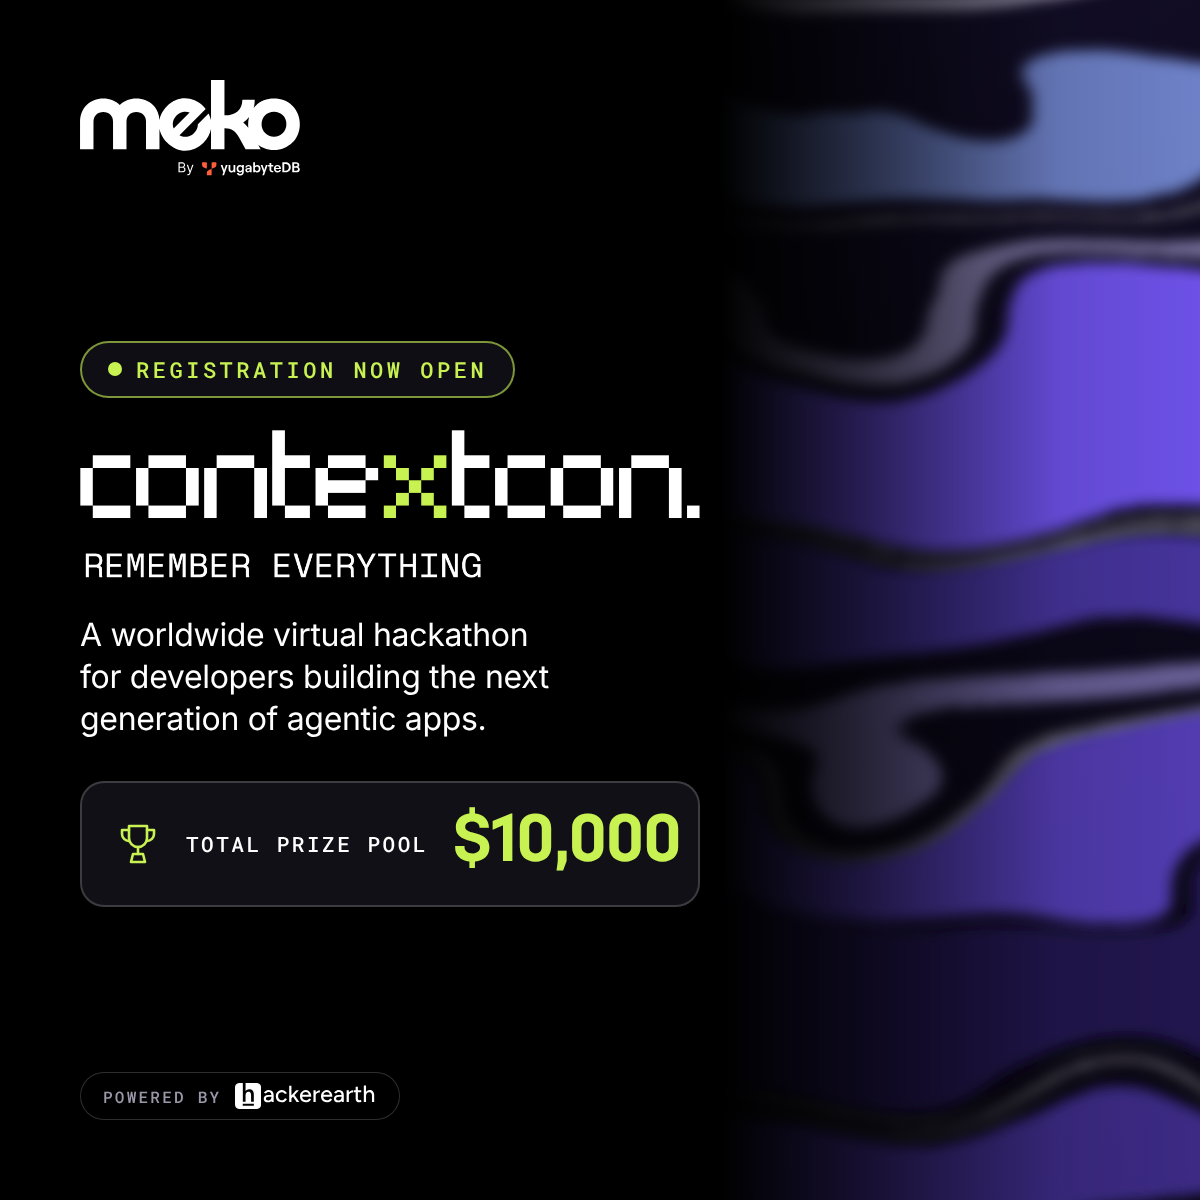
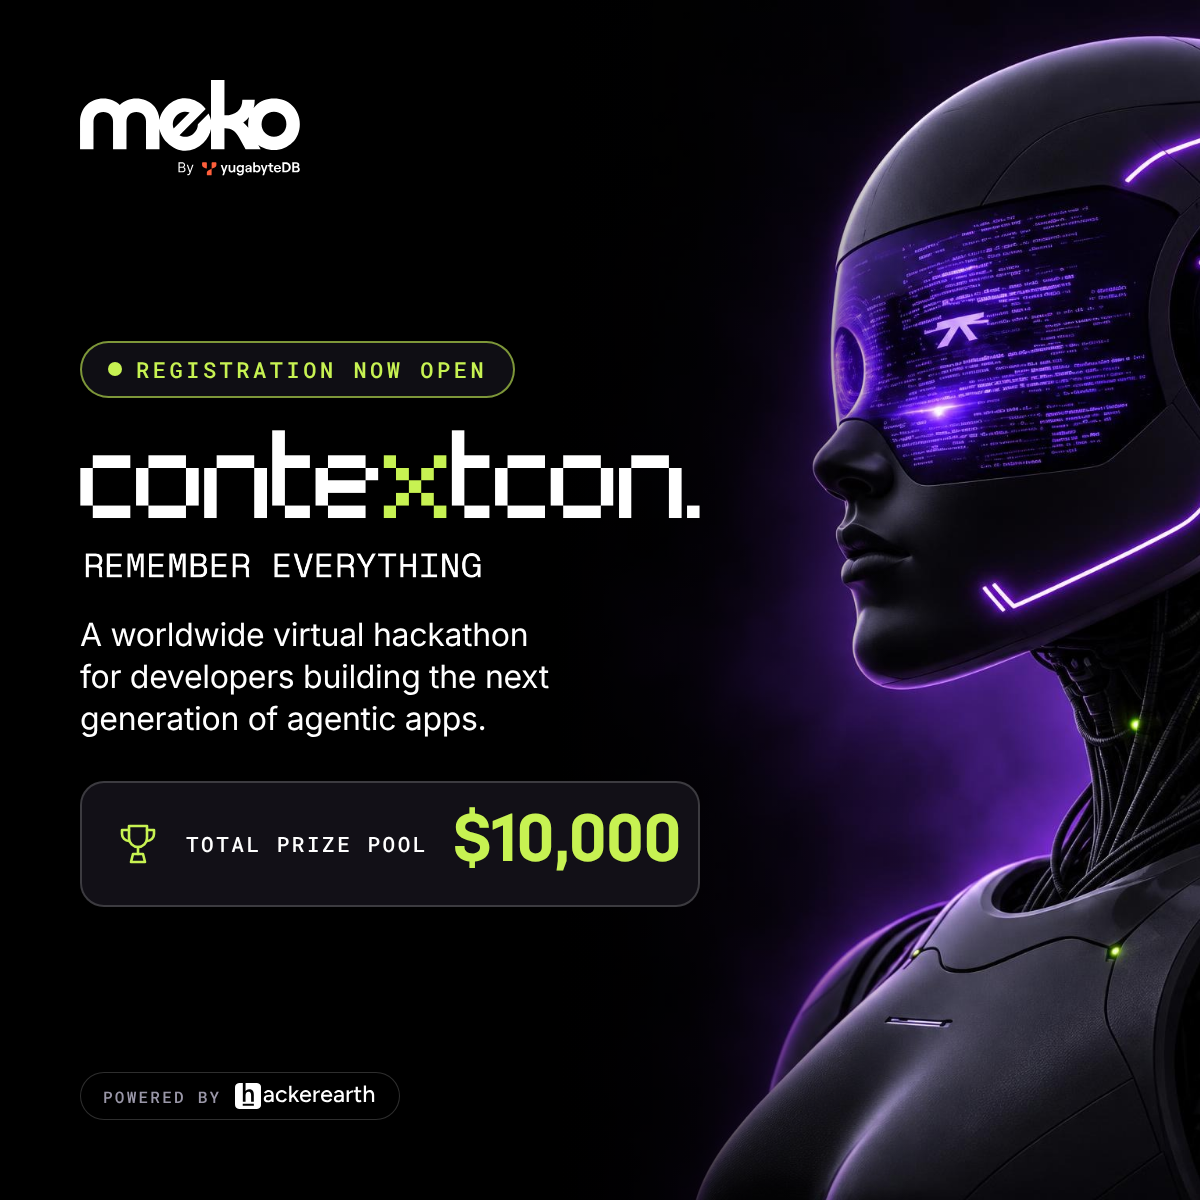
LinkedIn post: replace texture with robot2.jpg image
Claude-Session: https://claude.ai/code/session_011WvSfbuXTc2R9BKwTF66Kj

Changed region(s): [[0.555, 0.0, 1.0, 1.0]]

diff --git a/banners/contextcon-linkedin-1200x1200.html b/banners/contextcon-linkedin-1200x1200.html
@@ -19,7 +19,8 @@
 html,body{margin:0;background:var(--ground)}
 body{min-height:100vh;display:grid;place-items:center;-webkit-font-smoothing:antialiased}
 .post{position:relative;width:1200px;height:1200px;overflow:hidden;background:var(--ground);font-family:var(--sans);color:var(--text)}
-.tex{position:absolute;inset:0;width:100%;height:100%;display:block}
+.photo{position:absolute;top:0;bottom:0;left:340px;width:1200px;background:url(assets/linkedin-robot.jpg) center/cover no-repeat}
+.photo::after{content:'';position:absolute;inset:0;background:linear-gradient(90deg,#000 0%,#000 18%,rgba(0,0,0,.75) 30%,rgba(0,0,0,0) 48%)}
 /* content sits inside Instagram's safe area (clear of top ~250px and bottom ~250px UI) */
 .content{position:absolute;left:80px;width:620px;top:80px;bottom:80px;display:flex;flex-direction:column;align-items:flex-start}
 .pill{margin:auto 0 0;font-family:var(--mono);font-size:22px;font-weight:500;letter-spacing:.16em;text-transform:uppercase;color:var(--lime);
@@ -46,45 +47,7 @@ h1 img{display:block;width:100%;height:auto}
 </head>
 <body>
 <main class="post" aria-label="ContextCon: Remember everything — registration now open">
-  <svg class="tex" viewBox="0 0 2000 1200" preserveAspectRatio="xMaxYMid slice" aria-hidden="true">
-    <defs>
-      <linearGradient id="g135" x1="0" y1="0" x2="1" y2="1">
-        <stop offset="0" stop-color="#8ea8ff"/><stop offset=".35" stop-color="#7859fe"/>
-        <stop offset=".62" stop-color="#4a35a2"/><stop offset="1" stop-color="#20154f"/>
-      </linearGradient>
-      <filter id="marble" x="-10%" y="-10%" width="120%" height="120%">
-        <feTurbulence type="fractalNoise" baseFrequency="0.0022 0.005" numOctaves="2" seed="23" result="n"/>
-        <feDisplacementMap in="SourceGraphic" in2="n" scale="260" xChannelSelector="R" yChannelSelector="G" result="d"/>
-        <feGaussianBlur in="d" stdDeviation="7"/>
-      </filter>
-      <linearGradient id="fade" x1="0" y1="0" x2="1" y2="0">
-        <stop offset=".76" stop-color="#fff" stop-opacity="0"/>
-        <stop offset=".83" stop-color="#fff" stop-opacity=".35"/>
-        <stop offset=".93" stop-color="#fff" stop-opacity=".9"/>
-        <stop offset="1" stop-color="#fff" stop-opacity="1"/>
-      </linearGradient>
-      <mask id="m"><rect width="2000" height="1200" fill="url(#fade)"/></mask>
-    </defs>
-    <g mask="url(#m)">
-      <rect x="0" y="0" width="2000" height="1200" fill="url(#g135)" opacity=".18"/>
-      <g filter="url(#marble)">
-        <path d="M240 -240 C680 -130 1160 -290 1380 -100 S1760 0 2140 -80" stroke="#e9e6ff" stroke-width="30" fill="none" opacity="0.7"/>
-<path d="M240 -80 C680 30 1160 -130 1380 60 S1760 160 2140 80" stroke="#8ea8ff" stroke-width="90" fill="none" opacity="0.75"/>
-<path d="M240 70 C680 180 1160 20 1380 210 S1760 310 2140 230" stroke="#c9c2ff" stroke-width="26" fill="none" opacity="0.6"/>
-<path d="M240 180 C680 290 1160 130 1380 320 S1760 420 2140 340" stroke="#7859fe" stroke-width="150" fill="none" opacity="0.9"/>
-<path d="M240 350 C680 460 1160 300 1380 490 S1760 590 2140 510" stroke="#4a35a2" stroke-width="130" fill="none" opacity="0.95"/>
-<path d="M240 480 C680 590 1160 430 1380 620 S1760 720 2140 640" stroke="#b7a8ff" stroke-width="30" fill="none" opacity="0.55"/>
-<path d="M240 600 C680 710 1160 550 1380 740 S1760 840 2140 760" stroke="#5f46cd" stroke-width="120" fill="none" opacity="0.85"/>
-<path d="M240 760 C680 870 1160 710 1380 900 S1760 1000 2140 920" stroke="#20154f" stroke-width="170" fill="none" opacity="1"/>
-<path d="M240 940 C680 1050 1160 890 1380 1080 S1760 1180 2140 1100" stroke="#4a35a2" stroke-width="90" fill="none" opacity="0.8"/>
-<path d="M240 1100 C680 1210 1160 1050 1380 1240 S1760 1340 2140 1260" stroke="#20154f" stroke-width="160" fill="none" opacity="1"/>
-<path d="M260 0 C700 110 1180 -50 1400 140 S1780 240 2140 160" stroke="#ffffff" stroke-width="5" fill="none" opacity="0.7"/>
-<path d="M260 270 C700 380 1180 220 1400 410 S1780 510 2140 430" stroke="#ffffff" stroke-width="5" fill="none" opacity="0.55"/>
-<path d="M260 530 C700 640 1180 480 1400 670 S1780 770 2140 690" stroke="#ffffff" stroke-width="5" fill="none" opacity="0.5"/>
-<path d="M260 870 C700 980 1180 820 1400 1010 S1780 1110 2140 1030" stroke="#ffffff" stroke-width="5" fill="none" opacity="0.4"/>
-      </g>
-    </g>
-  </svg>
+  <div class="photo" aria-hidden="true"></div>
   <div class="content">
     <div class="meko"><svg xmlns="http://www.w3.org/2000/svg" role="img" aria-label="Meko by YugabyteDB" viewBox="0 0 943.4 409.61"><path fill="#ffffff" d="M 881.02 210.62 C 878.36 217.12 874.66 222.82 869.94 227.69 C 865.21 232.55 859.59 236.33 853.08 238.99 C 846.58 241.65 839.18 242.98 831.79 242.98 C 824.41 242.98 817.46 241.65 810.95 238.99 C 804.45 236.33 798.77 232.55 793.88 227.69 C 789.02 222.82 785.24 217.12 782.58 210.62 C 779.93 204.12 778.59 197.18 778.59 189.78 C 778.59 182.09 779.93 174.99 782.58 168.49 C 785.24 161.98 789.02 156.36 793.88 151.64 C 798.75 146.91 804.45 143.21 810.95 140.55 C 817.46 137.89 824.39 136.56 831.79 136.56 C 847.17 136.56 859.88 141.59 869.94 151.64 C 879.98 161.7 885.01 174.42 885.01 189.78 C 885.01 197.16 883.68 204.12 881.02 210.62 M 700.15 182.27 C 709.77 175.62 718.07 167.79 725.09 158.77 C 722.32 168.58 720.94 178.91 720.94 189.78 C 720.94 195.04 721.28 200.22 721.96 205.27 C 715.19 196.5 707.91 188.84 700.15 182.27 M 401.55 208.27 C 397.78 198.64 396.95 188.92 399.04 179.09 C 401.12 169.26 406.15 160.37 414.09 152.43 C 422.04 144.48 430.98 139.42 440.9 137.23 C 450.84 135.04 460.61 135.82 470.22 139.58 Z M 934.22 146.1 C 928.61 132.66 920.76 120.91 910.72 110.85 C 900.68 100.81 888.93 92.98 875.47 87.35 C 862.01 81.75 847.17 78.93 831.79 78.93 C 816.41 78.93 801.93 81.75 788.33 87.35 C 774.73 92.96 762.98 100.81 753.08 110.85 C 750.05 113.94 747.19 117.2 744.51 120.62 C 747.77 109.36 749.38 97.23 749.38 84.26 L 696.16 84.26 C 696.16 105.55 689.66 122.12 676.65 133.94 C 663.65 145.76 645.3 151.67 621.66 151.67 L 619.45 151.67 L 619.45 0 L 561.79 0 L 561.79 173 C 559.89 162.99 556.46 153.22 551.46 143.64 L 505.36 189.74 C 505.79 203.95 500.46 216.6 489.37 227.69 C 480.59 236.45 470.51 241.65 459.12 243.21 C 447.71 244.79 436.91 242.74 426.65 237.1 L 538.92 124.83 C 535.37 120.03 532.02 116.06 528.88 112.92 C 517.6 101.62 505.18 93.1 491.71 87.35 C 478.25 81.62 464.54 78.69 450.64 78.59 C 436.75 78.48 423.11 81.26 409.73 86.9 C 396.32 92.54 384 101.01 372.72 112.29 C 361.42 123.59 352.97 135.91 347.31 149.3 C 344.2 156.67 341.98 164.11 340.61 171.63 C 339.96 159.95 337.59 149.01 333.48 138.81 C 328.59 126.7 321.73 116.28 312.85 107.55 C 303.98 98.83 293.48 92.04 281.36 87.16 C 269.23 82.29 255.63 79.84 241.44 79.84 C 227.24 79.84 214.09 82.21 201.96 86.94 C 189.84 91.68 179.34 98.33 170.47 106.9 C 161.88 98.33 151.55 91.66 139.43 86.94 C 127.3 82.21 114.45 79.84 99.95 79.84 C 85.45 79.84 72.16 82.29 60.03 87.16 C 47.9 92.02 37.41 98.83 28.54 107.55 C 19.68 116.26 12.73 126.68 7.7 138.81 C 2.66 150.93 0.15 164.09 0.15 178.28 L 0.15 297.13 L 57.8 297.13 L 57.8 178.71 C 57.8 166.3 61.65 156.32 69.34 148.78 C 77.03 141.25 87.21 137.48 99.93 137.48 L 99.99 137.48 C 112.71 137.48 122.84 141.25 130.37 148.78 C 137.89 156.31 141.67 166.3 141.67 178.71 L 141.67 297.13 L 199.32 297.13 L 199.32 178.71 C 199.32 166.3 203.17 156.32 210.86 148.78 C 218.55 141.25 228.73 137.48 241.45 137.48 C 254.18 137.48 264.31 141.25 271.84 148.78 C 279.36 156.31 283.14 166.3 283.14 178.71 L 283.14 297.13 L 340.79 297.13 L 340.79 208.61 C 342.25 216.24 344.58 223.79 347.78 231.3 C 353.53 244.79 362.04 257.17 373.33 268.47 L 373.36 268.47 C 384.86 279.97 397.35 288.59 410.84 294.32 C 424.32 300.09 437.95 302.95 451.75 302.95 C 465.55 302.95 479.15 300.14 492.52 294.49 C 505.92 288.84 518.25 280.38 529.53 269.08 C 538.31 260.31 545.46 250.74 551.02 240.39 C 556.24 230.62 559.84 220.62 561.79 210.39 L 561.79 297.11 L 619.45 297.11 L 619.45 207.08 L 621.66 207.08 C 635.55 207.08 647.3 210.26 656.91 216.62 C 666.52 223 675.16 233.26 682.85 247.45 L 709.91 297.13 L 774.66 297.13 L 764.47 278.35 C 771.66 283.76 779.62 288.29 788.33 291.99 C 801.93 297.76 816.13 300.63 831.79 300.63 C 847.46 300.63 862.01 297.76 875.47 291.99 C 888.91 286.22 900.66 278.41 910.72 268.49 C 920.76 258.59 928.59 246.84 934.22 233.24 C 939.82 219.64 942.64 205.45 942.64 189.78 C 942.64 174.11 939.82 159.56 934.22 146.1 "/><path fill="#ffffff" d="M 926.7 389.04 L 918.33 389.04 L 918.33 376.73 L 926.7 376.73 C 932.21 376.73 934.87 379 934.87 382.93 C 934.87 386.88 932.21 389.04 926.7 389.04 M 918.33 359.5 L 926.3 359.5 C 930.73 359.5 932.9 361.38 932.9 364.72 C 932.9 368.07 930.73 369.84 926.4 369.84 L 918.33 369.84 Z M 935.26 372.6 C 937.92 371.22 940.48 368.17 940.48 364.04 C 940.48 356.95 934.87 353.01 926.99 353.01 L 910.26 353.01 L 910.26 396.12 L 927.59 396.12 C 936.64 396.12 942.64 391.4 942.64 383.32 C 942.64 377.62 939.3 374.07 935.27 372.59 Z M 935.26 372.6 "/><path fill="#ffffff" d="M 881.13 389.04 L 875.91 389.04 L 875.91 360 L 881.13 360 C 888.51 360 895.59 363.84 895.59 374.57 C 895.59 385.3 888.51 389.04 881.13 389.04 Z M 881.71 353.01 L 867.74 353.01 L 867.74 396.12 L 881.71 396.12 C 893.73 396.12 903.87 388.94 903.87 374.57 C 903.87 360.2 893.73 353.01 881.71 353.01 Z M 881.71 353.01 "/><path fill="#ffffff" d="M 846.67 370.24 C 851.2 370.24 853.85 373.19 854.25 377.13 L 838.89 377.13 C 839.68 372.5 842.44 370.24 846.67 370.24 Z M 854.54 385.79 C 853.76 388.74 851.2 390.32 847.26 390.32 C 842.54 390.32 839.29 387.17 838.7 382.15 L 861.63 382.15 C 861.76 381.3 861.82 380.45 861.82 379.59 C 861.82 372.11 857.1 364.53 846.67 364.53 C 836.23 364.53 831.41 372.3 831.41 380.47 C 831.41 388.64 837.12 396.62 847.26 396.62 C 854.94 396.62 860.74 392.39 861.92 385.79 Z M 854.54 385.79 "/><path fill="#ffffff" d="M 828.86 371.42 L 828.86 365.02 L 820.29 365.02 L 820.29 355.66 L 812.71 355.66 L 812.71 365.02 L 806.61 365.02 L 806.61 371.42 L 812.71 371.42 L 812.71 385.3 C 812.71 392.19 817.14 396.12 823.93 396.12 L 828.86 396.12 L 828.86 389.73 L 824.72 389.73 C 821.97 389.73 820.29 388.15 820.29 385 L 820.29 371.42 Z M 828.86 371.42 "/><path fill="#ffffff" d="M 797.16 365.02 L 790.07 386.38 L 782.79 365.02 L 775.11 365.02 L 786.43 396.12 L 782.1 408.72 L 789.28 408.72 L 794.11 394.64 L 804.93 365.02 L 797.16 365.02 Z M 797.16 365.02 "/><path fill="#ffffff" d="M 758.27 390.12 C 753.25 390.12 749.9 386.29 749.9 380.57 C 749.9 374.86 753.25 371.12 758.27 371.12 C 763.29 371.12 766.64 374.86 766.64 380.57 C 766.64 386.28 763.29 390.12 758.27 390.12 M 759.55 364.53 C 755.52 364.53 752.17 366.3 750.39 368.86 L 750.39 353.02 L 742.82 353.02 L 742.82 396.12 L 750.39 396.12 L 750.39 392.29 C 752.17 394.95 755.62 396.62 759.36 396.62 C 768.71 396.62 774.22 390.12 774.22 380.57 C 774.22 371.02 768.71 364.53 759.55 364.53 Z M 759.55 364.53 "/><path fill="#ffffff" d="M 728.64 383.04 C 728.64 387.66 725.89 391 721.16 391 C 718.31 391 716.34 389.43 716.34 386.97 C 716.34 384.31 718.51 382.54 721.66 382.54 L 728.64 382.54 Z M 722.64 364.53 C 714.57 364.53 709.35 369.35 708.96 375.55 L 715.75 375.55 C 715.85 372.8 718.31 370.24 722.35 370.24 C 726.38 370.24 728.64 372.41 728.64 375.45 C 728.64 376.64 727.96 377.52 726.38 377.52 L 720.67 377.52 C 713.69 377.52 708.96 381.26 708.96 387.37 C 708.96 392.68 713.19 396.62 719.3 396.62 C 723.82 396.62 727.36 394.55 728.64 391.5 L 728.64 396.12 L 736.13 396.12 L 736.13 376.14 C 736.13 369.16 730.52 364.53 722.64 364.53 Z M 722.64 364.53 "/><path fill="#ffffff" d="M 658.36 365.02 L 658.36 382.05 C 658.36 386.58 655.31 389.92 651.07 389.92 C 646.84 389.92 644.58 386.97 644.58 382.74 L 644.58 365.02 L 637.1 365.02 L 637.1 384.31 C 637.1 391.59 641.43 396.61 648.62 396.61 C 653.04 396.61 656.59 394.75 658.36 391.3 L 658.36 396.12 L 665.95 396.12 L 665.95 365.02 Z M 658.36 365.02 "/><path fill="#ffffff" d="M 625.38 365.02 L 618.2 386.38 L 611.02 365.02 L 603.34 365.02 L 614.65 396.12 L 610.32 408.72 L 617.51 408.72 L 622.33 394.64 L 633.16 365.02 Z M 625.38 365.02 "/><path fill="#ffffff" d="M 687.3 390.12 C 682.28 390.12 678.93 386.28 678.93 380.57 C 678.93 374.86 682.28 371.12 687.3 371.12 C 692.32 371.12 695.77 374.86 695.77 380.57 C 695.77 386.27 692.42 390.12 687.3 390.12 M 695.18 365.02 L 695.18 368.56 C 693.41 366.2 690.06 364.53 686.12 364.53 C 676.87 364.53 671.45 371.12 671.45 380.57 C 671.45 390.02 676.87 396.62 686.22 396.62 C 690.75 396.62 693.7 395.04 695.27 392.68 L 695.27 393.18 C 695.27 398.98 693.41 402.92 687.3 402.92 C 683.46 402.92 681.5 401.35 680.21 398.29 L 672.64 398.29 C 674.31 405.87 679.43 409.22 687.3 409.22 C 697.14 409.22 702.46 403.31 702.46 393.18 L 702.76 365.02 L 695.18 365.02 Z M 695.18 365.02 "/><path fill="#ff5f3b" d="M 539.94 353.01 C 541.34 353.01 542.05 353.01 542.59 353.28 C 543.05 353.52 543.44 353.91 543.68 354.38 C 543.95 354.91 543.95 355.62 543.95 357.02 L 543.95 374.68 C 543.95 376.77 543.95 377.82 543.51 378.46 C 543.12 379.02 542.53 379.41 541.86 379.52 C 541.09 379.64 540.14 379.2 538.24 378.32 L 533.3 376.01 C 529.73 374.35 527.94 373.52 526.63 372.23 C 525.48 371.09 524.6 369.71 524.05 368.18 C 523.45 366.45 523.45 364.48 523.45 360.55 L 523.45 357.02 C 523.45 355.62 523.45 354.91 523.72 354.38 C 523.96 353.91 524.34 353.52 524.81 353.28 C 525.35 353.01 526.05 353.01 527.46 353.01 Z M 539.94 353.01 "/><path fill="#ff5f3b" d="M 580.96 353.01 C 582.37 353.01 583.07 353.01 583.61 353.28 C 584.08 353.52 584.46 353.91 584.71 354.38 C 584.98 354.91 584.98 355.62 584.98 357.02 L 584.98 360.55 C 584.98 364.49 584.98 366.46 584.37 368.18 C 583.83 369.71 582.95 371.1 581.79 372.23 C 580.48 373.52 578.7 374.35 575.13 376.01 L 564.47 380.98 L 564.47 357.02 C 564.47 355.62 564.47 354.91 564.74 354.38 C 564.98 353.91 565.37 353.52 565.84 353.28 C 566.38 353.01 567.08 353.01 568.48 353.01 Z M 580.96 353.01 "/><path fill="#ff5f3b" d="M 564.47 380.98 L 564.47 404.95 C 564.47 406.35 564.47 407.05 564.2 407.59 C 563.95 408.06 563.57 408.45 563.1 408.69 C 562.56 408.96 561.86 408.96 560.45 408.96 L 547.97 408.96 C 546.57 408.96 545.86 408.96 545.33 408.69 C 544.86 408.45 544.47 408.06 544.23 407.59 C 543.96 407.05 543.96 406.35 543.96 404.95 L 543.96 401.42 C 543.96 397.48 543.96 395.51 544.57 393.78 C 545.11 392.25 545.99 390.87 547.15 389.73 C 548.46 388.45 550.24 387.62 553.81 385.95 Z M 564.47 380.98 "/><path fill="#ffffff" d="M 427.5 391.49 L 437.88 391.49 C 441.29 391.49 443.71 390.83 445.16 389.5 C 446.6 388.17 447.32 386.56 447.32 384.66 C 447.32 383.2 446.95 381.85 446.2 380.61 C 445.46 379.36 444.39 378.36 443.02 377.61 C 441.64 376.86 440.01 376.48 438.13 376.48 L 427.5 376.48 Z M 427.5 371.93 L 437.2 371.93 C 438.77 371.93 440.2 371.62 441.47 371 C 442.74 370.38 443.75 369.52 444.5 368.39 C 445.26 367.27 445.63 365.95 445.63 364.43 C 445.63 362.53 444.97 360.92 443.65 359.59 C 442.33 358.26 440.23 357.6 437.37 357.6 L 427.5 357.6 Z M 422.28 396.13 L 422.28 352.96 L 437.37 352.96 C 440.38 352.96 442.86 353.48 444.81 354.51 C 446.76 355.54 448.22 356.93 449.17 358.66 C 450.13 360.4 450.61 362.32 450.61 364.43 C 450.61 366.28 450.28 367.81 449.62 369.02 C 448.97 370.23 448.12 371.19 447.05 371.89 C 446 372.59 444.84 373.11 443.61 373.45 L 443.61 373.87 C 444.93 373.96 446.26 374.42 447.59 375.26 C 448.93 376.11 450.04 377.31 450.95 378.89 C 451.84 380.46 452.29 382.39 452.29 384.66 C 452.29 386.82 451.8 388.77 450.82 390.5 C 449.83 392.23 448.28 393.6 446.16 394.61 C 444.04 395.62 441.28 396.13 437.88 396.13 Z M 422.28 396.13 "/><path fill="#ffffff" d="M 463.42 408.19 C 462.58 408.19 461.83 408.12 461.17 407.98 C 460.5 407.85 460.05 407.72 459.8 407.59 L 461.06 403.21 C 462.88 403.68 464.38 403.66 465.59 403.18 C 466.8 402.7 467.85 401.24 468.73 398.83 L 469.66 396.3 L 457.69 363.75 L 463.09 363.75 L 472.02 389.55 L 472.36 389.55 L 481.3 363.75 L 486.73 363.84 L 472.95 400.85 C 472.33 402.5 471.57 403.86 470.65 404.95 C 469.74 406.04 468.68 406.85 467.48 407.38 C 466.28 407.92 464.93 408.19 463.42 408.19 "/></svg></div>
     <p class="pill">Registration now open</p>
